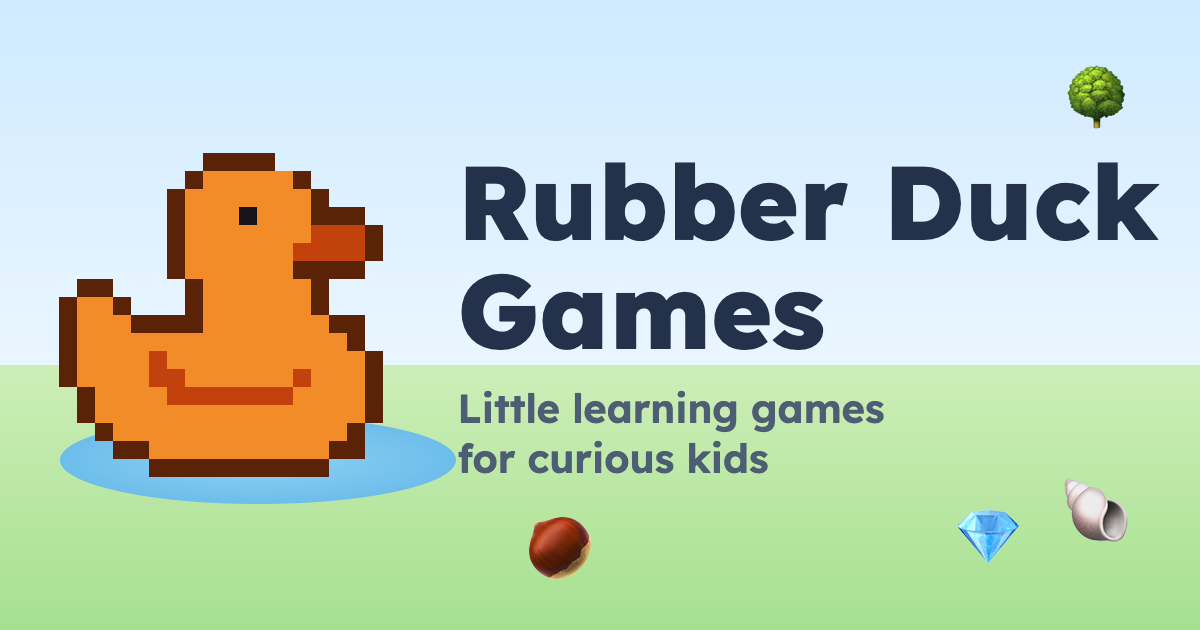
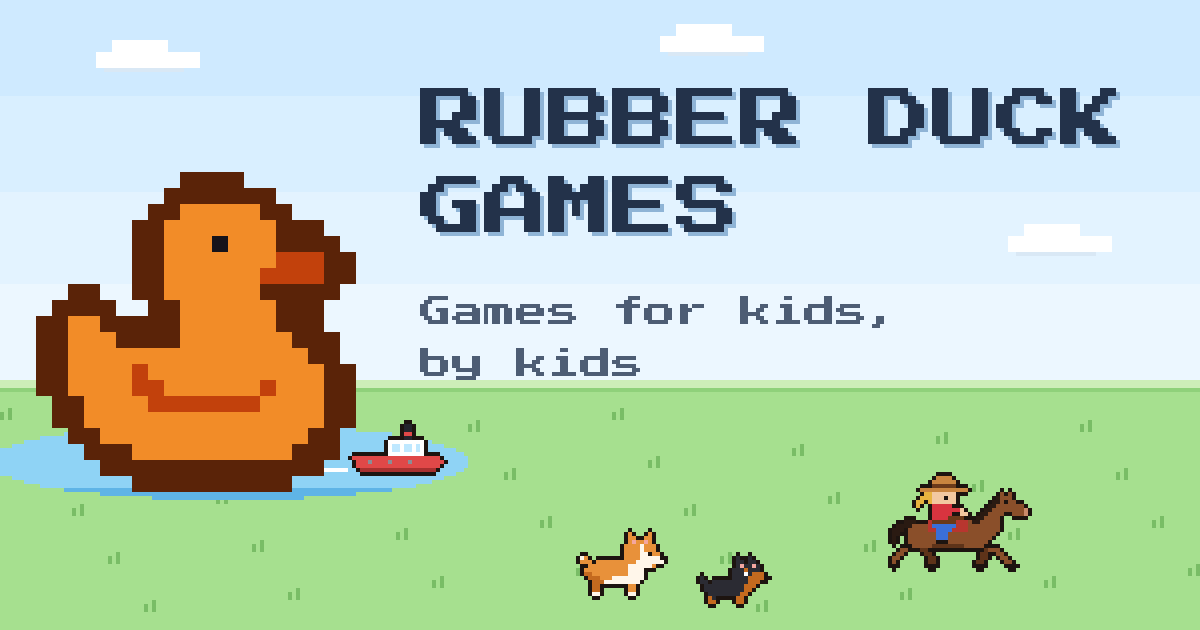
Share pictures in 8-bit: games for kids, by kids

diff --git a/brand/pixel-scene.js b/brand/pixel-scene.js
@@ -1,0 +1,120 @@
+// The share pictures (og-image.html, github-social-preview.html), drawn in
+// 8-bit like the games. Decided 3 Nov: "games for kids, by kids", with the
+// games' own sprites instead of emoji. Everything is drawn on a small canvas,
+// 4 screen pixels to a pixel, and scaled up with smoothing off. The sprites
+// are copied from the games (Bread, Crumb, the tugboat, the rodeo rider) and
+// the duck from logo.svg; if a game redraws one, copy it here again.
+const DUCK = ['....................', '.........kkkk.......', '........koooook.....', '.......koooooook....', '.......koooeoookkk..', '.......kooooooobbbk.', '.......koooooobbbbk.', '.......kooooookkkk..', '..kk....kooooook....', '.kook...kooooook....', '.koookkkkoooooookk..', '.koooooooooooooook..', '.koooodoooooooooook.', '.kooooddoooooodoook.', '..koooodddddddooook.', '..koooooooooooooook.', '...koooooooooooook..', '....kkooooooooookk..', '......kkkkkkkkkk....', '....................',];
+const DUCK_COL = { k: '#5a2308', o: '#f28c28', d: '#c2410c', b: '#c2410c', e: '#16131a' };
+const BREAD = ['........................', '.............o....o.....', '.............oo..oo.....', '.............opoopo.....', '............oooowooo....', '............oooowooo....', '............oooowwnoo...', '.wo.........oooowwwwwn..', '.ooo.oooooooooowwwwwww..', '...oooooooooowwwwwwo....', '..ooooooooooowwww.......', '..ddooooooooowwww.......', '...dddooowwwwwwww.......', '....dddwwwwwwwww........', '....dd.......oo.........', '....dd.......oo.........', '....ff.......ff.........', '........................'];
+const BREAD_COL = {
+  k: '#2a1a10', n: '#1d1410', o: '#e8913a', d: '#c46a1f', w: '#fff6ea', p: '#f4a6a0', f: '#fff6ea',
+  y: '#ffd23f', Y: '#e0a800', b: '#ff8a1f', r: '#e04848', R: '#a8302f', l: '#bfe8ff', g: '#c9c9d4',
+  D: '#2b2b33', m: '#9b5cd8', s: '#b8773a', t: '#8a4f2a', c: '#f2d8b8', u: '#3a6fd8', h: '#ffffff', e: '#ffe680',
+  G: '#3f8a5c', L: '#5aa772', q: '#2e6b45', W: '#5bb8e8', V: '#3a8fc0', P: '#e8a0bf', Q: '#cf7fa3', M: '#a07bc4', N: '#7b4fa0',
+};
+const CRUMB = [...['..........D..D....', '..........DD.DD...', '..........DpDDpD..', '.........DDDsDDD..', '.........DDDhDsss.', '.D.......DDDDssssn', '.DD.DDDDDDDDDsss..', '..DDDDDDDDDDsss...', '..DDDDDDDDDDss....', '...DDDDDDDDss.....'], '...sD.....ss......', '...ss.....ss......'];
+const TUG = ['..............DD........', '..............DD........', '..............rr........', '..............DD........', '..........hhhhhhhhh.....', '..........hllhllhlh.....', '..........hllhllhlh.....', '..........hhhhhhhhh.....', '.rrrrrrrrrrrrrrrrrrrrrr.', '..rrrgrrrrgrrrrgrrrrrrrr', '..rrrrrrrrrrrrrrrrrrrrr.', '...RRRRRRRRRRRRRRRRRRR..'];
+const TUG_COL = {
+  k: '#1d1410', D: '#24242c', h: '#ffffff', r: '#e04848', R: '#a8302f', l: '#bfe8ff', g: '#8c8c96', y: '#ffd23f', Y: '#e0a800',
+  b: '#ff8a1f', t: '#8a4f2a', s: '#b8773a', c: '#f2d8b8', P: '#f4a6a0', Q: '#d9837d', G: '#5aa772', q: '#3f8a5c', u: '#3a6fd8', m: '#9b5cd8',
+  W: '#5bb8e8', V: '#3a8fc0', o: '#e8913a', p: '#f7c6d8', e: '#ffe680', n: '#2b2b33', a: '#7fd36b',
+};
+const SPR = {
+  body: [
+    '...........................t.t',
+    '..........................mbbb',
+    '.........................mmbkbb',
+    '........................mmbbbbbbb',
+    '.......................mmbbbbbbbbp',
+    '......................mmbbbb..bbbp',
+    '.....................mmbbbb',
+    '...mmm...bbbbbbbbbbbmmbbbbb',
+    '.mmmmbbbbbbbbbbbbbbbbbbbbbb',
+    'mmm.bbbbbbbbbbbbbbbbbbbbbbb',
+    'mm..bbbbbbbbbbbbbbbbbbbbbb',
+    'm...bbbbbbbbbbbbbbbbbbbbb',
+    'm...bbbbbbbbbbbbbbbbbbbb',
+    '.....bbbbbddddddddbbbbb',
+  ],
+  legs: [
+    ['..bb....................bbb', '.bb.......................bb', 'bb.........................bb', 'b...........................bb', 'h............................hh'],
+    ['.....bb..............bb', '......bb............bb', '.......bb...........bb', '.......bb..........bb', '.......hh..........hh'],
+    ['.....bbb........bbb', '.......bbb....bbb', '.........bbbbb', '........hh..hh'],
+    ['....bb.................bb', '...bb....................bb', '..bb.......................b', '..bb........................b', '..hh.........................h'],
+  ],
+  // the rider: a cowboy hat, a braid flying behind her, and her hands on the reins
+  girl: [
+    '.....HHHH',
+    '....HHHHHH',
+    '....nnnnnn',
+    '.HHHHHHHHHHHH',
+    '..yyffffff',
+    '.yyyfffkff',
+    'yy.yffffff',
+    'y...rrrrr',
+    '....rrrrrrrf',
+    '....rrrrr..ff',
+    '....rrrr',
+    '....ssssss',
+    '....jjjjjj',
+    '.....jjjj',
+    '.....jjj',
+    '.....jjj',
+    '.....kkk',
+  ],
+};
+const PAL = { b: '#8a4f2a', d: '#5e3319', m: '#2a1a12', t: '#8a4f2a', k: '#1d1410', p: '#c98a6a', h: '#1d1410', r: '#d8343f', s: '#6b3a1a', f: '#f2c8a0', y: '#e8b33f', j: '#3a6fd8', H: '#c9853f', n: '#6b3a1a', e: '#b8362f' };
+const RIDER = (() => {
+  const g = Array.from({ length: 34 }, () => Array(40).fill('.')), top = 5;
+  const put = (rows, x, y, as) => rows.forEach((row, j) => [...row].forEach((ch, i) => { if (ch !== '.') g[y + j][x + i] = as && ch !== 'h' ? as : ch; }));
+  put(SPR.legs[1], 3, top + 14, 'd'); put(SPR.legs[0], 1, top + 14); put(SPR.body, 1, top);
+  put(['eeeeeeeeee', 'eeeeeeeeee', 'eeeeeeeeee'], 10, top + 7); put(['ssssssss'], 11, top + 6); put(SPR.girl, 7, 1);
+  return g.map(r => r.join(''));
+})();
+
+function drawScene(cv, title, tag) {
+  const S = 4, W = Math.round(cv.width / S), H = Math.round(cv.height / S);
+  const lo = document.createElement('canvas'); lo.width = W; lo.height = H;
+  const x = lo.getContext('2d');
+  const px = (a, b, w, h, c) => { x.fillStyle = c; x.fillRect(Math.round(a), Math.round(b), w, h); };
+  // a sprite with a one-pixel dark outline, like the games draw them
+  const sprite = (rows, col, X, Y, k = 1, flip = false, line = '#1d1410') => {
+    const w = Math.max(...rows.map(r => r.length)), at = (i, j) => (rows[j] || '')[i] || '.';
+    for (let j = -1; j <= rows.length; j++) for (let i = -1; i <= w; i++) {
+      const ch = at(i, j), xx = X + (flip ? w - 1 - i : i) * k, yy = Y + j * k;
+      if (ch !== '.') px(xx, yy, k, k, col[ch] || line);
+      else if ([[1, 0], [-1, 0], [0, 1], [0, -1]].some(([a, b]) => at(i + a, j + b) !== '.')) px(xx, yy, k, k, line);
+    }
+  };
+  const sky = Math.round(H * .6);
+  // sky in bands, pixel clouds, grass with tufts
+  ['#cfeaff', '#d9efff', '#e3f3ff', '#ecf7ff'].forEach((c, i) => px(0, i * sky / 4, W, sky / 4 + 1, c));
+  const cloud = (a, b) => { px(a + 4, b, 14, 3, '#ffffff'); px(a, b + 3, 26, 4, '#ffffff'); px(a + 2, b + 7, 20, 1, '#d9e8f5'); };
+  cloud(W * .08, 10); cloud(W * .55, 6); cloud(W * .84, 56);
+  px(0, sky, W, H - sky, '#a6e08f'); px(0, sky, W, 2, '#cdeeb8'); px(0, sky + 2, W, 1, '#8fd17a');
+  for (let i = 0; i < W; i += 9) { const yy = sky + 8 + (i * 7) % (H - sky - 12); px(i, yy, 1, 2, '#79bd66'); px(i + 2, yy - 1, 1, 3, '#79bd66'); }
+  // the pond, stepped like an 8-bit ellipse, and the duck sitting in it
+  const pcx = W * .19, pcy = sky + 20, rx = W * .2, ry = 9;
+  for (let j = -ry; j <= ry; j++) { const half = Math.round(rx * Math.sqrt(1 - (j / (ry + .5)) ** 2)); px(pcx - half, pcy + j, half * 2, 1, j > ry - 3 ? '#5fb4e6' : '#8fd3f5'); }
+  px(pcx - rx * .5, pcy - 2, 8, 1, '#ffffff'); px(pcx + rx * .4, pcy + 2, 6, 1, '#ffffff');
+  const dk = 4; sprite(DUCK, DUCK_COL, pcx - 12 * dk, pcy - 18 * dk, dk, false, '#5a2308');
+  sprite(TUG, TUG_COL, pcx + rx - 30, pcy - 9, 1);   // the tugboat out on the pond
+  // the games' own characters along the bottom
+  sprite(BREAD, BREAD_COL, W * .48, H - 26, 1);
+  sprite(CRUMB, { D: '#2b2b33', s: '#c46a1f', p: '#f4a6a0', h: '#ffffff', n: '#1d1410' }, W * .48 + 30, H - 19, 1);
+  sprite(RIDER, PAL, W * .74, H - 40, 1);
+  // the words in the pixel font, snapped to hard pixels
+  const words = (str, a, b, size, col) => {
+    const t = document.createElement('canvas'); t.width = W; t.height = size * 2;
+    const g = t.getContext('2d'); g.font = `${size}px "Press Start 2P"`; g.fillStyle = col; g.textBaseline = 'top'; g.fillText(str, 0, 0);
+    const d = g.getImageData(0, 0, W, size * 2);
+    for (let i = 3; i < d.data.length; i += 4) d.data[i] = d.data[i] > 110 ? 255 : 0;
+    g.putImageData(d, 0, 0);
+    x.drawImage(t, a, b);
+  };
+  const tx = Math.round(W * .35);
+  title.forEach((line, i) => { words(line, tx + 1, 22 + i * 22 + 1, 16, '#8fb4d6'); words(line, tx, 22 + i * 22, 16, '#23324a'); });
+  tag.forEach((line, i) => words(line, tx, 74 + i * 13, 8, '#4d5d74'));
+  const out = cv.getContext('2d'); out.imageSmoothingEnabled = false; out.drawImage(lo, 0, 0, W * S, H * S);
+}

diff --git a/brand/github-social-preview.html b/brand/github-social-preview.html
@@ -1,15 +1,8 @@
 <!doctype html><html><head><meta charset="utf-8">
-<link href="https://fonts.googleapis.com/css2?family=Lexend:wght@600;800&display=swap" rel="stylesheet">
-<style>html,body{margin:0;width:1280px;height:640px;overflow:hidden}
-body{font-family:Lexend,Verdana,sans-serif;color:#23324a;background:linear-gradient(#cfeaff,#eaf6ff 58%,#cdeeb8 58%,#a6e08f);display:flex;align-items:center;justify-content:center;gap:56px;position:relative}
-.pond{position:absolute;left:5%;bottom:20%;width:33%;height:14%;border-radius:50%;background:radial-gradient(ellipse,#8fd3f5,#5fb4e6)}
-svg{width:370px;position:relative;z-index:1}
-h1{font-size:110px;margin:0;line-height:1.05;font-weight:800}
-p{font-size:42px;margin:18px 0 0;color:#4d5d74;font-weight:600}
-.t{position:relative;z-index:1}
-.deco{position:absolute;font-size:66px}
-</style></head><body><div class="pond"></div>
-<span class="deco" style="right:6%;top:9%">🌳</span><span class="deco" style="right:15%;bottom:8%">💎</span><span class="deco" style="right:6%;bottom:12%">🐚</span><span class="deco" style="left:44%;bottom:6%">🌰</span>
-<svg viewBox="0 0 20 20" shape-rendering="crispEdges"><path fill="#5a2308" d="M9 1h4v1h-4zM8 2h1v1h-1zM14 2h1v1h-1zM7 3h1v1h-1zM15 3h1v1h-1zM7 4h1v1h-1zM15 4h3v1h-3zM7 5h1v1h-1zM18 5h1v1h-1zM7 6h1v1h-1zM18 6h1v1h-1zM7 7h1v1h-1zM14 7h4v1h-4zM2 8h2v1h-2zM8 8h1v1h-1zM15 8h1v1h-1zM1 9h1v1h-1zM4 9h1v1h-1zM8 9h1v1h-1zM15 9h1v1h-1zM1 10h1v1h-1zM5 10h4v1h-4zM16 10h2v1h-2zM1 11h1v1h-1zM17 11h1v1h-1zM1 12h1v1h-1zM18 12h1v1h-1zM1 13h1v1h-1zM18 13h1v1h-1zM2 14h1v1h-1zM18 14h1v1h-1zM2 15h1v1h-1zM18 15h1v1h-1zM3 16h1v1h-1zM17 16h1v1h-1zM4 17h2v1h-2zM16 17h2v1h-2zM6 18h10v1h-10z"/><path fill="#f28c28" d="M9 2h5v1h-5zM8 3h7v1h-7zM8 4h3v1h-3zM12 4h3v1h-3zM8 5h7v1h-7zM8 6h6v1h-6zM8 7h6v1h-6zM9 8h6v1h-6zM2 9h2v1h-2zM9 9h6v1h-6zM2 10h3v1h-3zM9 10h7v1h-7zM2 11h15v1h-15zM2 12h4v1h-4zM7 12h11v1h-11zM2 13h4v1h-4zM8 13h6v1h-6zM15 13h3v1h-3zM3 14h4v1h-4zM14 14h4v1h-4zM3 15h15v1h-15zM4 16h13v1h-13zM6 17h10v1h-10z"/><path fill="#c2410c" d="M6 12h1v1h-1zM6 13h2v1h-2zM14 13h1v1h-1zM7 14h7v1h-7z"/><path fill="#c2410c" d="M15 5h3v1h-3zM14 6h4v1h-4z"/><path fill="#16131a" d="M11 4h1v1h-1z"/></svg>
-<div class="t"><h1>Rubber Duck<br>Games</h1><p>Little learning games<br>for curious kids</p></div>
+<!-- Rendered to a PNG with headless Chrome at 1280x640; see CLAUDE.md. -->
+<link href="https://fonts.googleapis.com/css2?family=Press+Start+2P&display=swap" rel="stylesheet">
+<style>html,body{margin:0;width:1280px;height:640px;overflow:hidden;background:#cfeaff}canvas{display:block}</style></head><body>
+<canvas id="c" width="1280" height="640"></canvas>
+<script src="pixel-scene.js"></script>
+<script>document.fonts.load('16px "Press Start 2P"').then(() => drawScene(document.getElementById('c'), ['RUBBER DUCK', 'GAMES'], ['Games for kids,', 'by kids']));</script>
 </body></html>

diff --git a/brand/og-image.html b/brand/og-image.html
@@ -1,15 +1,8 @@
 <!doctype html><html><head><meta charset="utf-8">
-<link href="https://fonts.googleapis.com/css2?family=Lexend:wght@600;800&display=swap" rel="stylesheet">
-<style>html,body{margin:0;width:1200px;height:630px;overflow:hidden}
-body{font-family:Lexend,Verdana,sans-serif;color:#23324a;background:linear-gradient(#cfeaff,#eaf6ff 58%,#cdeeb8 58%,#a6e08f);display:flex;align-items:center;justify-content:center;gap:56px;position:relative}
-.pond{position:absolute;left:5%;bottom:20%;width:33%;height:14%;border-radius:50%;background:radial-gradient(ellipse,#8fd3f5,#5fb4e6)}
-svg{width:360px;position:relative;z-index:1}
-h1{font-size:104px;margin:0;line-height:1.05;font-weight:800}
-p{font-size:40px;margin:18px 0 0;color:#4d5d74;font-weight:600}
-.t{position:relative;z-index:1}
-.deco{position:absolute;font-size:64px}
-</style></head><body><div class="pond"></div>
-<span class="deco" style="right:6%;top:9%">🌳</span><span class="deco" style="right:15%;bottom:8%">💎</span><span class="deco" style="right:6%;bottom:12%">🐚</span><span class="deco" style="left:44%;bottom:6%">🌰</span>
-<svg viewBox="0 0 20 20" shape-rendering="crispEdges"><path fill="#5a2308" d="M9 1h4v1h-4zM8 2h1v1h-1zM14 2h1v1h-1zM7 3h1v1h-1zM15 3h1v1h-1zM7 4h1v1h-1zM15 4h3v1h-3zM7 5h1v1h-1zM18 5h1v1h-1zM7 6h1v1h-1zM18 6h1v1h-1zM7 7h1v1h-1zM14 7h4v1h-4zM2 8h2v1h-2zM8 8h1v1h-1zM15 8h1v1h-1zM1 9h1v1h-1zM4 9h1v1h-1zM8 9h1v1h-1zM15 9h1v1h-1zM1 10h1v1h-1zM5 10h4v1h-4zM16 10h2v1h-2zM1 11h1v1h-1zM17 11h1v1h-1zM1 12h1v1h-1zM18 12h1v1h-1zM1 13h1v1h-1zM18 13h1v1h-1zM2 14h1v1h-1zM18 14h1v1h-1zM2 15h1v1h-1zM18 15h1v1h-1zM3 16h1v1h-1zM17 16h1v1h-1zM4 17h2v1h-2zM16 17h2v1h-2zM6 18h10v1h-10z"/><path fill="#f28c28" d="M9 2h5v1h-5zM8 3h7v1h-7zM8 4h3v1h-3zM12 4h3v1h-3zM8 5h7v1h-7zM8 6h6v1h-6zM8 7h6v1h-6zM9 8h6v1h-6zM2 9h2v1h-2zM9 9h6v1h-6zM2 10h3v1h-3zM9 10h7v1h-7zM2 11h15v1h-15zM2 12h4v1h-4zM7 12h11v1h-11zM2 13h4v1h-4zM8 13h6v1h-6zM15 13h3v1h-3zM3 14h4v1h-4zM14 14h4v1h-4zM3 15h15v1h-15zM4 16h13v1h-13zM6 17h10v1h-10z"/><path fill="#c2410c" d="M6 12h1v1h-1zM6 13h2v1h-2zM14 13h1v1h-1zM7 14h7v1h-7z"/><path fill="#c2410c" d="M15 5h3v1h-3zM14 6h4v1h-4z"/><path fill="#16131a" d="M11 4h1v1h-1z"/></svg>
-<div class="t"><h1>Rubber Duck<br>Games</h1><p>Little learning games<br>for curious kids</p></div>
+<!-- Rendered to a PNG with headless Chrome at 1200x630; see CLAUDE.md. -->
+<link href="https://fonts.googleapis.com/css2?family=Press+Start+2P&display=swap" rel="stylesheet">
+<style>html,body{margin:0;width:1200px;height:630px;overflow:hidden;background:#cfeaff}canvas{display:block}</style></head><body>
+<canvas id="c" width="1200" height="630"></canvas>
+<script src="pixel-scene.js"></script>
+<script>document.fonts.load('16px "Press Start 2P"').then(() => drawScene(document.getElementById('c'), ['RUBBER DUCK', 'GAMES'], ['Games for kids,', 'by kids']));</script>
 </body></html>

diff --git a/index.html b/index.html
@@ -4,20 +4,20 @@
 <meta charset="utf-8">
 <meta name="viewport" content="width=device-width, initial-scale=1">
 <title>Rubber Duck Games</title>
-<meta name="description" content="Little learning games for curious kids, played right in the browser.">
+<meta name="description" content="Games for kids, by kids. Quick, free and played right in the browser.">
 <link rel="canonical" href="https://rubberduckgames.com/">
 <meta name="theme-color" content="#cfeaff">
 <meta property="og:type" content="website">
 <meta property="og:url" content="https://rubberduckgames.com/">
 <meta property="og:site_name" content="Rubber Duck Games">
 <meta property="og:title" content="Rubber Duck Games">
-<meta property="og:description" content="Little learning games for curious kids, played right in the browser.">
-<meta property="og:image" content="https://rubberduckgames.com/og-image.png?v=2">
+<meta property="og:description" content="Games for kids, by kids. Quick, free and played right in the browser.">
+<meta property="og:image" content="https://rubberduckgames.com/og-image.png?v=3">
 <meta property="og:image:width" content="1200">
 <meta property="og:image:height" content="630">
-<meta property="og:image:alt" content="An orange rubber duck in a pond beside the words Rubber Duck Games, little learning games for curious kids">
+<meta property="og:image:alt" content="An 8-bit orange rubber duck in a pond beside the words Rubber Duck Games, games for kids, by kids">
 <meta name="twitter:card" content="summary_large_image">
-<meta name="twitter:image" content="https://rubberduckgames.com/og-image.png?v=2">
+<meta name="twitter:image" content="https://rubberduckgames.com/og-image.png?v=3">
 <link rel="icon" type="image/svg+xml" href="/favicon.svg?v=2">
 <link rel="icon" href="/favicon.ico?v=2" sizes="any">
 <link rel="apple-touch-icon" href="/apple-touch-icon.png?v=2">

diff --git a/CLAUDE.md b/CLAUDE.md
@@ -131,7 +131,11 @@ The branching, versioning and accessibility rules come from the parent `CLAUDE.m
   are rendered from the matching `brand/*.html` with headless Chrome
   (`--headless=new --window-size=1200,630 --screenshot=...`); favicon.ico comes
   from a 64 px render via `sips -s format ico`. Bump `?v=` in the meta tags when
-  an image changes, or link previews keep the old one.
+  an image changes, or link previews keep the old one. Decided 3 Nov: the duck
+  is 8-bit, and the two share pictures are 8-bit scenes drawn by
+  `brand/pixel-scene.js` ("games for kids, by kids", with sprites copied from
+  the games instead of emoji). They wait for the pixel font, so render them
+  with `--virtual-time-budget=6000`.
 - `shared/files.js` is the save-file picker for Bread and Math Force. Decided
   29 Oct (#44): like a console game, three save files per game that anyone can
   play, with Copy and Erase (a copy into an empty file can be renamed). A file
